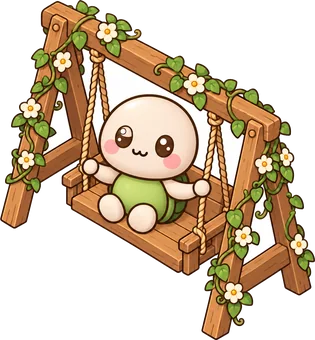
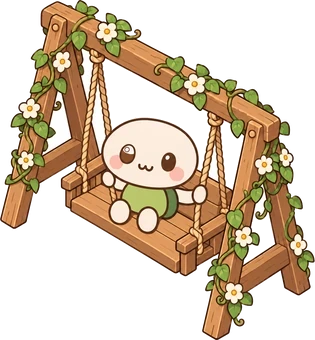
MoSo Farm: new Momo/Soso sprites from modular sheets, 27:25 size ratio, furniture poses
Claude-Session: https://claude.ai/code/session_01QAfQwgjpXoatxFNxkUH3yy

Changed region(s): [[0.0, 0.0, 1.0, 1.0], [0.8857, 0.7941, 0.9714, 0.8824], [0.8, 0.8235, 0.8286, 0.8529]]

diff --git a/moso-farm/js/game.js b/moso-farm/js/game.js
@@ -174,8 +174,10 @@ const img=(k,cls)=>`<img src="${icon(k)}" alt="" class="${cls||""}">`;
 function needHTML(need,mul){return `<div class="need">${Object.entries(need).map(([k,n])=>{const h=S.inv[k]||0;return `<span class="${h<n?"no":""}" title="${ITEMS[k].n}">${img(k)}${h}/${n}</span>`;}).join("")}</div>`;}
 
 // ================= TURTLES =================
+const TSIZE={momo:1,soso:25/27};
 function drawTurtle(ctx,who,view,x,y,h,flip,bob,sq){
   const im=IM[who+"_"+view]; if(!im||!im.complete)return;
+  h*=TSIZE[who]||1; // Momo ~27cm, Soso ~25cm
   const w=h*im.width/im.height;
   ctx.save();ctx.fillStyle="rgba(70,50,30,.18)";ctx.beginPath();ctx.ellipse(x,y,w*.38,h*.06,0,0,7);ctx.fill();
   ctx.translate(x,y-(bob||0));sq=sq||1;ctx.scale((flip?-1:1)*(2-sq),sq);

diff --git a/moso-farm/README.md b/moso-farm/README.md
@@ -74,8 +74,11 @@ and `assets/cu_nono.webp` (walking sprite), add both names to `ASSET_KEYS` at th
 ## Art
 
 Farm, plaza, shops, furniture, crops and item icons were generated with OpenArt in a style
-matched to the TiniTomo art. Momo, Soso and the villagers come from the other TiniTomo games
-in this repo.
+matched to the TiniTomo art. Momo and Soso's front/back/side/three-quarter sprites
+(`momo_*`, `soso_*`) are cut from their modular sprite sheets, and the furniture poses
+(`oa_f_<furniture>_<momo|soso>`) were made from those sheets. Momo is drawn a little bigger
+than Soso (about 27 cm to 25 cm; `TSIZE` in `js/game.js`). The villagers come from the other
+TiniTomo games in this repo.
 
 ## Saves
 
